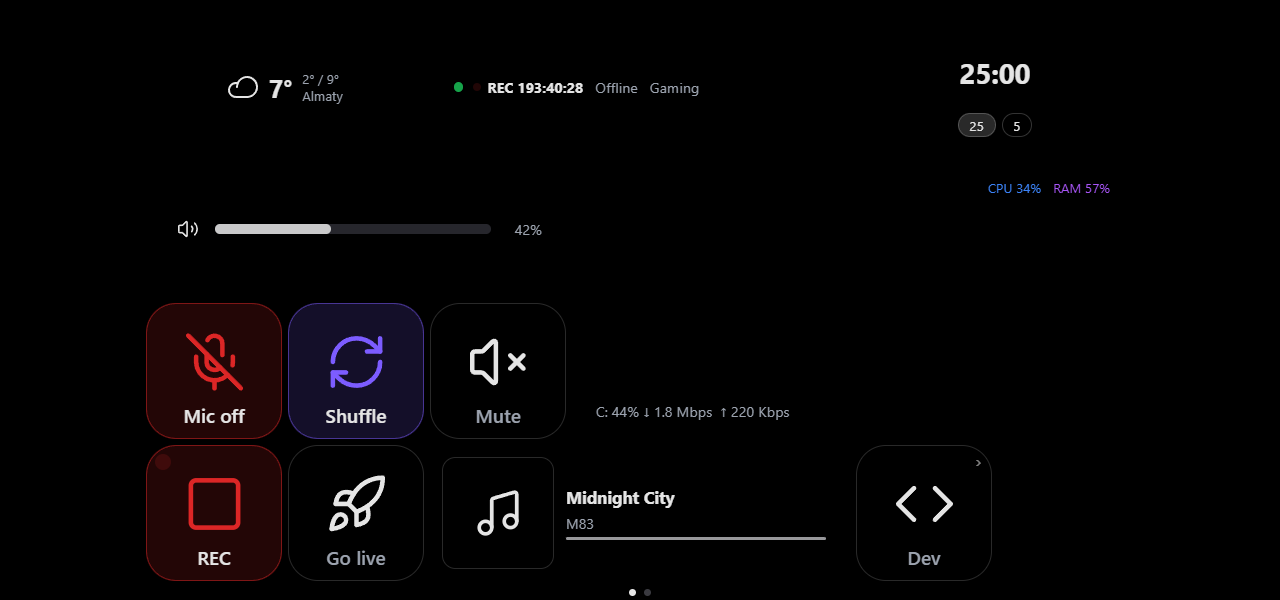
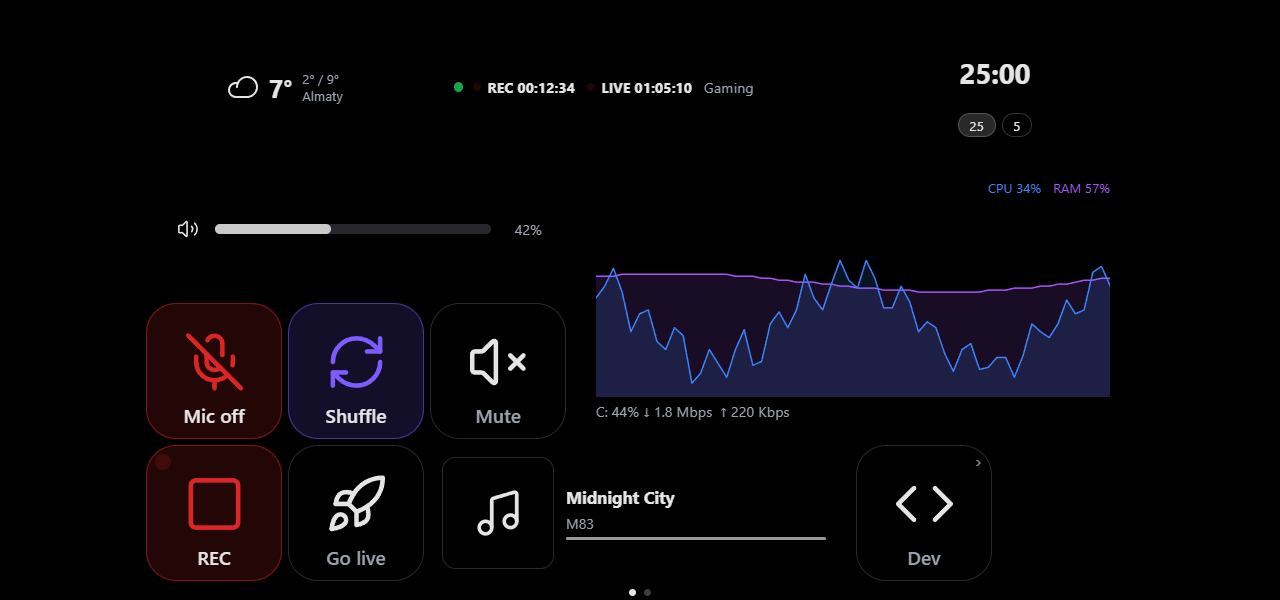
T22.1: screenshot fixes

Changed region(s): [[0.4688, 0.42, 0.875, 0.66], [0.4062, 0.12, 0.5938, 0.18]]

diff --git a/tools/voice-shots/main.tsx b/tools/voice-shots/main.tsx
@@ -2,6 +2,7 @@
 // (client) in the states of DESIGN.md 4.12. Not part of the app.
 import { createRoot } from "react-dom/client";
 import { setLanguage, type Language } from "@decka/shared";
+import { recordSys, resetSysHistory } from "@decka/ui";
 import VoicePill from "../../agent/src/VoicePill";
 import VoiceFab from "../../client/src/voice/VoiceFab";
 import VoiceConfirmSheet from "../../client/src/voice/VoiceConfirmSheet";
@@ -33,6 +34,16 @@ if (scene === "deck" || scene === "settings") {
   const fx = JSON.parse(JSON.stringify(stateFx.default)) as { layout: { display: Record<string, unknown>; pages: { items: unknown[] }[] }; [k: string]: unknown };
   fx.layout.display = { ...fx.layout.display, theme: q.get("theme") ?? "glass", wallpaper: q.get("wallpaper") ?? "aurora", orientation: "landscape" };
   fx.layout.pages[0]!.items.push({ id: "w-media", kind: "media", x: 2, y: 3, w: 3, h: 1, prevAction: "media-prev", playAction: "media-play", nextAction: "media-next" });
+  // OBS: connected, recording and live, so the widget shows no "Offline"; the sys graph gets a full history of a plausible curve.
+  const now = Date.now();
+  fx.obs = { connected: true, recording: true, recordStartedAt: now - 754_000, streaming: true, streamStartedAt: now - 3_910_000, scene: "Gaming", replayBuffer: false };
+  resetSysHistory();
+  const sys = fx.sys as { cpu: number; mem: { usedMb: number; totalMb: number } };
+  for (let i = 0; i < 70; i++) {
+    const cpu = Math.round(34 + 22 * Math.sin(i / 5) + 9 * Math.sin(i * 1.7) + (i % 7) * 1.5);
+    const ramPct = 55 + 6 * Math.sin(i / 11) + i * 0.08;
+    recordSys({ ...sys, cpu: Math.max(4, Math.min(96, cpu)), mem: { totalMb: 32000, usedMb: Math.round((ramPct / 100) * 32000) } } as never);
+  }
   if (scene === "deck") {
     await import("../../client/src/styles.css");
     localStorage.setItem("decka.glass.reduced.v1", "0");
@@ -45,7 +56,7 @@ if (scene === "deck" || scene === "settings") {
     localStorage.setItem("decka.wizard.done.v1", "1");
     localStorage.setItem("decka.editor.tips.v1", "1");
     const layout = { version: 1, ...fx.layout };
-    const answers: Record<string, unknown> = { get_layout: layout, get_actions: actionsFx.default, get_update_status: { state: "idle" }, get_status: { running: true } };
+    const answers: Record<string, unknown> = { get_layout: layout, get_actions: actionsFx.default, get_update_status: { state: "idle" }, get_status: { version: "0.20.1", focusApp: null, listening: { bind: "0.0.0.0", port: 9247 }, lanIps: ["192.168.1.20"], clients: [{ deviceId: "demo", name: "Phone", remote: "192.168.1.31", connectedAt: Date.now() }], usb: { enabled: false, adbFound: false, devices: [] }, configDir: "C:\\Users\\demo\\AppData\\Roaming\\Decka" }, list_window_apps: ["code.exe", "chrome.exe"], get_templates: [], get_config: (await import("../../shared/fixtures/config.example.json")).default };
     (window as never as { __TAURI_INTERNALS__: unknown }).__TAURI_INTERNALS__ = {
       invoke: async (cmd: string) => {
         if (cmd in answers) return answers[cmd];
@@ -64,6 +75,8 @@ if (scene === "pill") await import("../../agent/src/styles.css");
 else await import("../../client/src/styles.css");
 if (scene === "pill") {
   document.body.style.background = "#1b1b22";
+  // `pad=1`: the pill sits in the middle of a canvas that the shooter crops to the pill plus 40 px on every side.
+  if (q.get("pad")) document.body.style.cssText += ";display:flex;align-items:center;justify-content:center;";
   root.render(<VoicePill initialData={{ ...info, level: Number(q.get("level") ?? 0.6), hotkey: "Ctrl+Alt+Space" } as never} />);
 } else {
   document.body.style.background = "#000";
